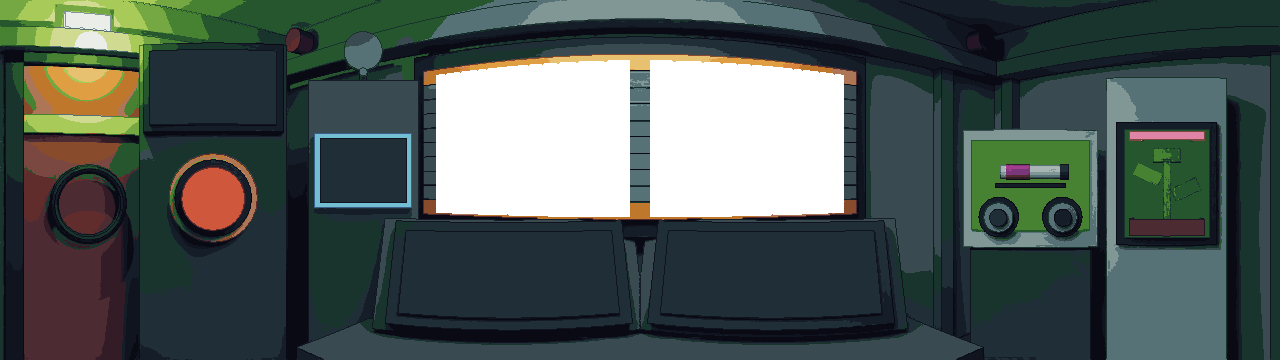
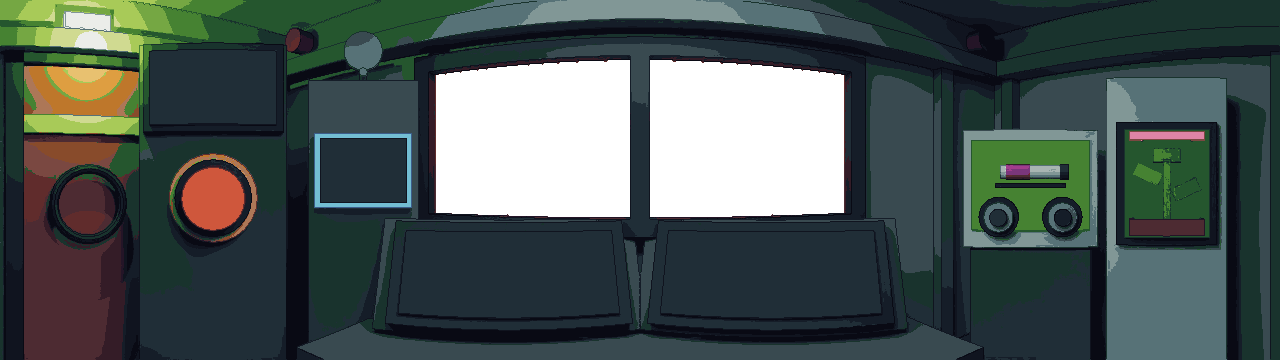
Refaz a persiana pelo Blender e baixa o som em 4 dB
A persiana fica 6,5 cm na frente da moldura e cobre o montante e as bordas, não só o vidro. O comodo.py ganha o estado extra abrigo_aberto (luz do abrigo, sem persiana, vidro em alpha 0), fora do padrão de --estados. gerar_persiana.py usa a diferença entre abrigo e abrigo_aberto como camada e a camada sobe para cima do Panorama. Volume da persiana numa constante só (VOLUME_DB, -4 dB).

Claude-Session: https://claude.ai/code/session_01GWdXbiKWWM8P9F8LBcwyo6

Changed region(s): [[0.3125, 0.1222, 0.6875, 0.6417]]

diff --git a/scripts/gerar_persiana.py b/scripts/gerar_persiana.py
@@ -1,25 +1,36 @@
-#!/usr/bin/env python3
-"""Separa a persiana da janela dos PNGs do cômodo (Pillow e numpy).
+"""Separa a persiana da janela dos PNGs do cômodo (Pillow, numpy e scipy).
 
-Uso: scripts/gerar_persiana.py
+Uso:
+    ~/.local/bin/blender -b --factory-startup -P $PWD/arte/blender/comodo.py -- --estados abrigo_aberto
+    scripts/gerar_persiana.py
 
-Lê assets/comodo/normal.png e abrigo.png. O vidro da janela tem alfa 0 em normal.png e é opaco em
-abrigo.png, onde ali está a persiana fechada. Escreve em assets/comodo/:
+A persiana fica 6,5 cm na frente da moldura (arte/blender/comodo.py), então no abrigo ela cobre o
+vidro, o montante central e as bordas da janela. O Blender renderiza o estado extra `abrigo_aberto`
+(mesma luz do abrigo, sem a persiana, vidro em alpha 0) direto em assets/comodo/abrigo_aberto.png.
+Este script usa a diferença entre abrigo.png e esse render e escreve em assets/comodo/:
 
-- persiana.png: a persiana (pixels de abrigo.png sob o vidro), o resto transparente;
+- persiana.png: a persiana (pixels de abrigo.png dentro da máscara), o resto transparente;
 - persiana_indice.png: em cinza, a lâmina de cada pixel da persiana (R = lâmina * 20 + 10, de 0 a 9;
   255 fora dela). O shader (shaders/persiana.gdshader) mostra só as lâminas até a do progresso;
-- abrigo_aberto.png: abrigo.png com o vidro em alfa 0, para a persiana vir da camada.
+- abrigo_aberto.png, reescrito: o render do Blender dentro da máscara e abrigo.png fora dela.
+
+A máscara é onde os dois PNGs diferem, depois de fechar buracos de 1 px (fechamento 3x3), preencher
+os furos e ficar só com o maior pedaço. Fora da persiana os dois renders diferem em pontos soltos
+(a luz que a persiana reflete, e o ruído do render): ficam fora da máscara, e ali o abrigo_aberto
+copia o abrigo, para a camada sobre ele refazer o abrigo.png pixel a pixel.
 
 A persiana tem N_PERSIANA = 10 lâminas (arte/blender/comodo.py), separadas por 9 linhas escuras de
 1 px. Em cada linha, acha os pixels escuros perto da posição esperada, ajusta uma curva suave
 (polinômio, descartando os pontos fora da curva) e cola a linha no pixel escuro mais próximo da
-curva. A linha pertence à lâmina de cima. Falha se alguma coluna ficar sem as 10 lâminas.
+curva. A linha pertence à lâmina de cima. Nas colunas sem vidro (montante e bordas) a linha vem das
+colunas vizinhas, e cada pixel fica na lâmina da mesma altura. Falha se alguma coluna de vidro
+ficar sem as 10 lâminas.
 """
 import sys
 from pathlib import Path
 
 import numpy as np
+import scipy.ndimage as ndi
 from PIL import Image
 
 RAIZ = Path(__file__).resolve().parent.parent
@@ -44,8 +55,8 @@ def limites_do_vidro(vidro):
     return tem, topo, base
 
 
-def linhas_entre_laminas(abrigo, vidro):
-    """Matriz [N_LAMINAS - 1, largura]: a linha (y) de cada divisória em cada coluna do vidro."""
+def linhas_entre_laminas(abrigo, vidro, mascara):
+    """Matriz [N_LAMINAS - 1, largura]: a linha (y) de cada divisória em cada coluna da máscara."""
     escuro = abrigo[:, :, :3].astype(int).sum(axis=2) <= LIMIAR_ESCURO
     tem, topo, base = limites_do_vidro(vidro)
     colunas = np.where(tem)[0]
@@ -55,6 +66,7 @@ def linhas_entre_laminas(abrigo, vidro):
     if len(ref) != N_LAMINAS - 1:
         sys.exit("coluna %d tem %d linhas escuras, esperava %d" % (xr, len(ref), N_LAMINAS - 1))
     todas = np.arange(abrigo.shape[1])
+    colunas_mascara = np.where(mascara.any(axis=0))[0]
     linhas = np.zeros((N_LAMINAS - 1, abrigo.shape[1]))
     for k, r in enumerate(ref):
         esperada = topo + (r - topo[xr]) / altura[xr] * altura
@@ -71,23 +83,41 @@ def linhas_entre_laminas(abrigo, vidro):
             coef = np.polyfit(xs[manter], ds[manter], GRAU)
             manter = np.abs(ds - np.polyval(coef, xs)) <= TOLERANCIA
         curva = esperada + np.polyval(coef, todas)
-        for x in colunas:
+        # sem vidro (montante e bordas): a curva das colunas vizinhas
+        curva_ext = np.interp(todas, colunas, curva[colunas])
+        curva = np.where(tem, curva, curva_ext)
+        for x in colunas_mascara:
+            ys = np.where(mascara[:, x])[0]
             perto = [y for y in range(int(curva[x]) - 1, int(curva[x]) + 3)
-                     if topo[x] <= y <= base[x] and escuro[y, x] and abs(y - curva[x]) <= 1.5]
+                     if ys[0] <= y <= ys[-1] and escuro[y, x]
+                     and abs(y - curva[x]) <= (1.5 if tem[x] else 2.0)]
             linhas[k, x] = min(perto, key=lambda y: abs(y - curva[x])) if perto else round(curva[x])
     return linhas
 
 
-def indice_das_laminas(abrigo, vidro):
-    """Matriz [altura, largura] com a lâmina (0 a 9) de cada pixel do vidro, e 255 fora dele."""
-    linhas = linhas_entre_laminas(abrigo, vidro)
-    tem, topo, base = limites_do_vidro(vidro)
+def mascara_da_persiana(abrigo, aberto, vidro):
+    """Onde abrigo.png e o render sem persiana diferem: fecha buracos de 1 px, preenche furos e
+    fica com o maior pedaço (o resto são pontos soltos de luz e ruído fora da persiana)."""
+    diferem = (abrigo != aberto).any(axis=2)
+    diferem = ndi.binary_closing(diferem, structure=np.ones((3, 3)))
+    diferem = ndi.binary_fill_holes(diferem)
+    rotulos, n = ndi.label(diferem, structure=np.ones((3, 3)))
+    tamanhos = ndi.sum(diferem, rotulos, range(1, n + 1))
+    mascara = rotulos == (int(np.argmax(tamanhos)) + 1)
+    if not mascara[vidro].all():
+        sys.exit("há vidro fora da máscara da persiana")
+    return mascara
+
+
+def indice_das_laminas(abrigo, vidro, mascara):
+    """Matriz [altura, largura] com a lâmina (0 a 9) de cada pixel da máscara, e 255 fora dela."""
+    linhas = linhas_entre_laminas(abrigo, vidro, mascara)
     indice = np.full(vidro.shape, 255, np.uint8)
-    for x in np.where(tem)[0]:
+    for x in np.where(mascara.any(axis=0))[0]:
         divisorias = np.sort(linhas[:, x]) + 1  # a linha é da lâmina de cima
-        ys = np.where(vidro[:, x])[0]
+        ys = np.where(mascara[:, x])[0]
         lamina = np.searchsorted(divisorias, ys, side="right")
-        if len(set(lamina)) != N_LAMINAS:
+        if vidro[:, x].any() and len(set(lamina)) != N_LAMINAS:
             sys.exit("coluna %d ficou com %d lâminas, esperava %d" % (x, len(set(lamina)), N_LAMINAS))
         indice[ys, x] = lamina
     return indice
@@ -96,24 +126,28 @@ def indice_das_laminas(abrigo, vidro):
 def main():
     normal = carregar("normal.png")
     abrigo = carregar("abrigo.png")
+    aberto = carregar("abrigo_aberto.png")  # o render do Blender (ou o que este script já limpou)
     vidro = normal[:, :, 3] == 0
     if not (abrigo[:, :, 3][vidro] == 255).all():
         sys.exit("o vidro de normal.png tem pixel que não é opaco em abrigo.png")
+    if not ((aberto[:, :, 3] == 0) == vidro).all():
+        sys.exit("o vidro de abrigo_aberto.png não bate com o de normal.png: rode o Blender antes")
 
-    indice = indice_das_laminas(abrigo, vidro)
+    mascara = mascara_da_persiana(abrigo, aberto, vidro)
+    indice = indice_das_laminas(abrigo, vidro, mascara)
 
     persiana = np.zeros_like(abrigo)
-    persiana[vidro] = abrigo[vidro]
+    persiana[mascara] = abrigo[mascara]
     Image.fromarray(persiana, "RGBA").save(COMODO / "persiana.png", optimize=True)
 
-    cinza = np.where(vidro, indice.astype(int) * 20 + 10, 255).astype(np.uint8)
+    cinza = np.where(mascara, indice.astype(int) * 20 + 10, 255).astype(np.uint8)
     Image.fromarray(cinza, "L").save(COMODO / "persiana_indice.png", optimize=True)
 
-    aberto = abrigo.copy()
-    aberto[vidro] = 0
-    Image.fromarray(aberto, "RGBA").save(COMODO / "abrigo_aberto.png", optimize=True)
+    limpo = np.where(mascara[:, :, None], aberto, abrigo)
+    Image.fromarray(limpo.astype(np.uint8), "RGBA").save(COMODO / "abrigo_aberto.png", optimize=True)
 
-    print("%d px de persiana, %d lâminas, escrito em %s" % (vidro.sum(), N_LAMINAS, COMODO))
+    print("%d px de persiana (%d de vidro), %d lâminas, escrito em %s"
+          % (mascara.sum(), vidro.sum(), N_LAMINAS, COMODO))
 
 
 if __name__ == "__main__":

diff --git a/arte/blender/comodo.py b/arte/blender/comodo.py
@@ -8,6 +8,11 @@ Uso (da raiz do repo):
 Fonte da verdade: este script. Nenhum .blend é salvo nem lido.
 Mesma câmera em todos os estados. A geometria também é a mesma, com uma única exceção
 permitida: a persiana da janela, que só o estado `abrigo` fecha. O estado muda luz e emissão.
+A persiana fica 6,5 cm na frente da moldura, então no `abrigo` ela cobre também o montante
+central e as bordas da janela, não só o vidro. Por isso há o estado extra `abrigo_aberto`: a
+mesma luz e emissão do `abrigo`, sem a persiana e com o vidro em alpha 0. Ele não entra no padrão
+de `--estados` (renderize com `--estados abrigo_aberto`); scripts/gerar_persiana.py usa a
+diferença entre `abrigo` e `abrigo_aberto` como a camada da persiana.
 
 A janela larga do centro não leva vista assada: o vidro sai com alpha 0 no PNG (menos no
 `abrigo`, onde a persiana o cobre) e o Godot põe a vista de Marte atrás, por composição. A vista
@@ -38,6 +43,8 @@ RAIZ = Path(__file__).resolve().parents[2]
 CACHE = RAIZ / "arte" / "blender" / ".render"
 
 ESTADOS = ["normal", "tempestade", "abrigo", "modo_seguranca"]
+# Fora do padrão de --estados: só se pede por nome. Usa a luz do abrigo, sem a persiana.
+ESTADOS_EXTRA = ["abrigo_aberto"]
 
 # Apollo, AdamCYounis — https://lospec.com/palette-list/apollo
 APOLLO = (
@@ -533,7 +540,7 @@ def aplicar_estado(estado, luzes):
             luz_teto=(vermelho, 25), luz_console=(azul, 0), luz_porta=(verde, 0),
             alarme=(vermelho, 4), luz_alarme=(vermelho, 15), luminaria=(vermelho, 0.5),
             telas=0.0, janela=0.4, botoes=0.0, lampada_porta=(vermelho, 2), mundo=0.005),
-    }[estado]
+    }["abrigo" if estado == "abrigo_aberto" else estado]
 
     def luz(nome, cor_energia):
         luzes[nome].color, luzes[nome].energy = cor_energia
@@ -554,7 +561,7 @@ def aplicar_estado(estado, luzes):
             emissao(m, COR_BOTAO[n], E["botoes"])
     emissao(MATS["janela"], None, E["janela"])
     for ob in PERSIANA:                  # única diferença de geometria entre estados
-        ob.hide_render = estado != "abrigo"
+        ob.hide_render = estado != "abrigo"  # (abrigo_aberto também a esconde)
     bpy.context.scene.world.node_tree.nodes["Background"].inputs["Strength"].default_value = E["mundo"]
 
 
@@ -712,7 +719,7 @@ def contorno(p):
 
 def pixel_art(p, borda, estado):
     """Devolve o RGBA do panorama; o vidro da janela sai com alpha 0 (menos no abrigo)."""
-    if estado == "abrigo":
+    if estado in ("abrigo", "abrigo_aberto"):
         verde_ok = True
     else:
         verde_ok = np.isin(p["indice"], [INDICE[n] for n in OBJETOS_VERDES if n in INDICE])
